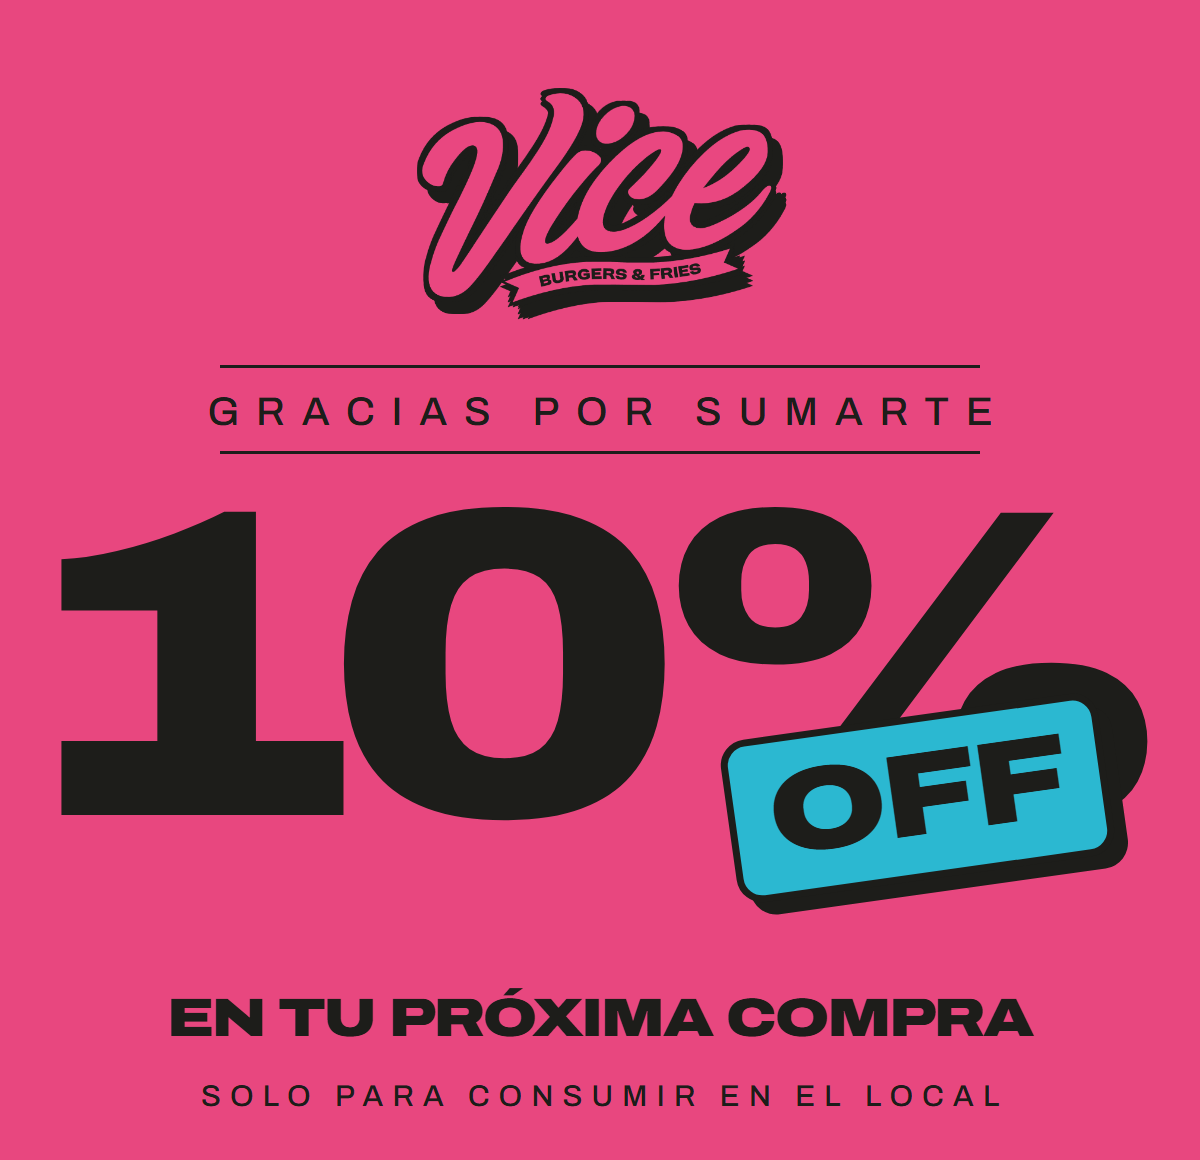
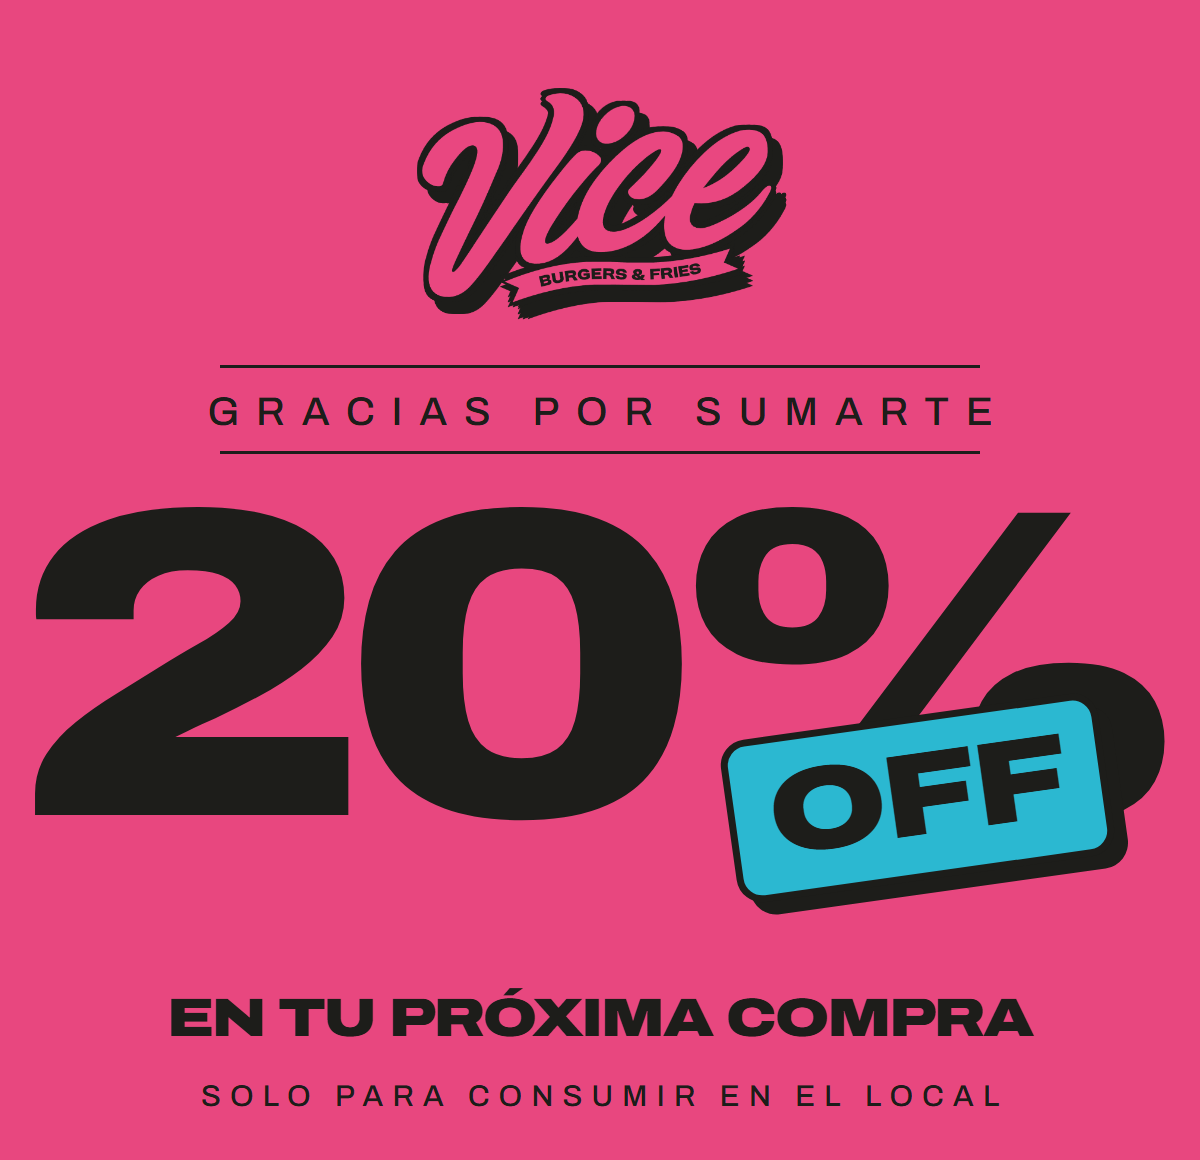
Cupon: 20% OFF

diff --git a/cupon/canje.html b/cupon/canje.html
@@ -98,7 +98,7 @@
 <div class="velo" id="velo" hidden>
   <div class="hoja">
     <h2>¿Marcar como usado?</h2>
-    <p>Aplicá el 10% y confirmá. <b>No se puede deshacer.</b> Después de esto, el cupón no vuelve a servir.</p>
+    <p>Aplicá el 20% y confirmá. <b>No se puede deshacer.</b> Después de esto, el cupón no vuelve a servir.</p>
     <button class="si" id="confirmar" type="button">Sí, marcar usado</button>
     <button class="no" id="cancelar" type="button">Cancelar</button>
   </div>
@@ -143,12 +143,12 @@
       var quien = (r.ig ? 'Instagram: <b>' + esc(r.ig) + '</b><br>' : '') + (r.email ? 'Mail: <b>' + esc(r.email) + '</b>' : '');
       if (r.estado === 'valido') {
         pintar('valido', ICONOS.ok, 'Cupón válido', codigo,
-          '<b>10% de descuento</b>, solo consumo en el local.<br>' + quien + '<br>Vence el <b>' + esc(r.vence) + '</b>',
+          '<b>20% de descuento</b>, solo consumo en el local.<br>' + quien + '<br>Vence el <b>' + esc(r.vence) + '</b>',
           '<button class="marcar" id="marcar" type="button">Marcar como usado</button>');
         $('marcar').addEventListener('click', function(){ $('velo').hidden = false; });
       } else if (r.estado === 'canjeado') {
         pintar('usado', ICONOS.no, 'Cupón usado', codigo,
-          'Recién marcado: aplicá el <b>10%</b>.<br>Ya no sirve para otra compra.<br>' + quien);
+          'Recién marcado: aplicá el <b>20%</b>.<br>Ya no sirve para otra compra.<br>' + quien);
       } else if (r.estado === 'usado') {
         pintar('usado', ICONOS.no, 'Cupón usado', codigo,
           'Se usó el <b>' + esc(r.usado || 'antes') + '</b>.<br><b>No aplicar el descuento.</b><br>' + quien);

diff --git a/cupon/index.html b/cupon/index.html
@@ -3,8 +3,8 @@
 <head>
 <meta charset="utf-8">
 <meta name="viewport" content="width=device-width, initial-scale=1, viewport-fit=cover">
-<title>Vice Burgers &amp; Fries · 10% OFF</title>
-<meta name="description" content="Sumate al canal de Vice en Instagram y llevate 10% OFF en tu próxima compra.">
+<title>Vice Burgers &amp; Fries · 20% OFF</title>
+<meta name="description" content="Sumate al canal de Vice en Instagram y llevate 20% OFF en tu próxima compra.">
 <meta name="theme-color" content="#121210">
 <meta name="robots" content="noindex, nofollow">
 <link rel="icon" type="image/png" href="../avatar.png">
@@ -137,7 +137,7 @@
     <img class="logo" src="../logo.png" alt="Vice">
 
     <div class="intro">
-      <div class="off">10%<small>OFF</small></div>
+      <div class="off">20%<small>OFF</small></div>
       <h1>en tu próxima visita</h1>
       <p id="introTxt">Gracias por estar en el canal de Vice. Dejanos tus datos y te mandamos el cupón a tu mail.</p>
     </div>

diff --git a/cupon/privacidad.html b/cupon/privacidad.html
@@ -27,7 +27,7 @@
 <body>
 <main>
   <h1>Política de privacidad</h1>
-  <p class="fecha">Promoción "10% OFF por sumarte al canal" · Vice Burgers &amp; Fries · Actualizada el 17/11/2026</p>
+  <p class="fecha">Promoción "20% OFF por sumarte al canal" · Vice Burgers &amp; Fries · Actualizada el 17/11/2026</p>
 
   <p>Esta política explica qué datos usamos cuando pedís tu cupón de descuento en <a href="./">esta página</a>.</p>
 
